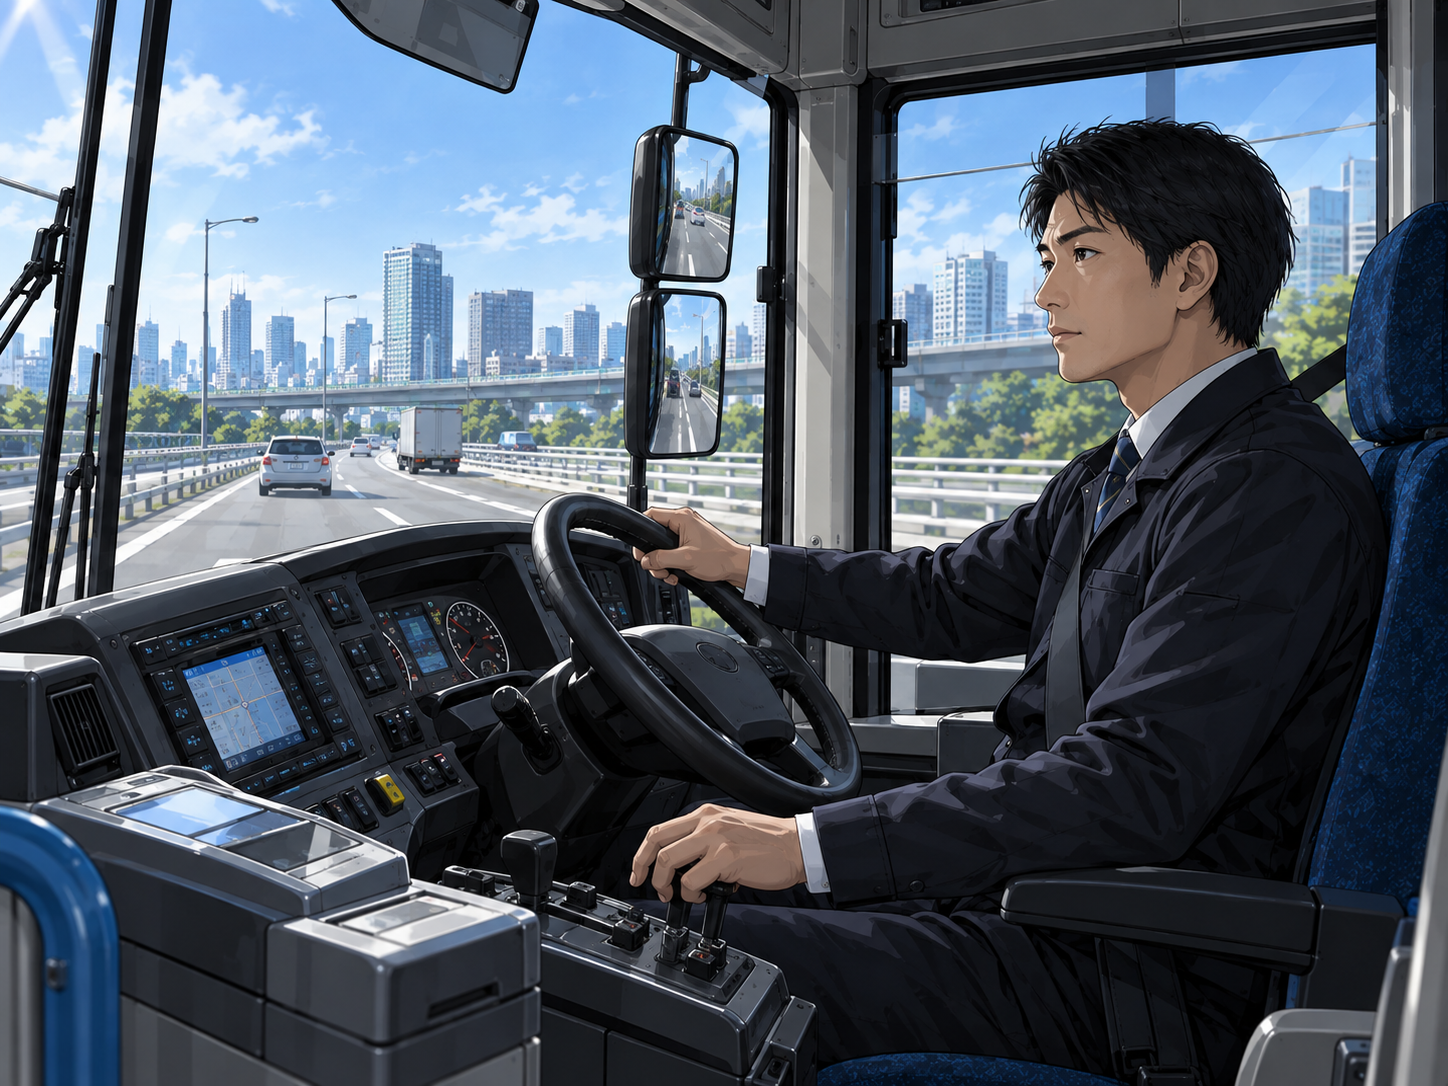
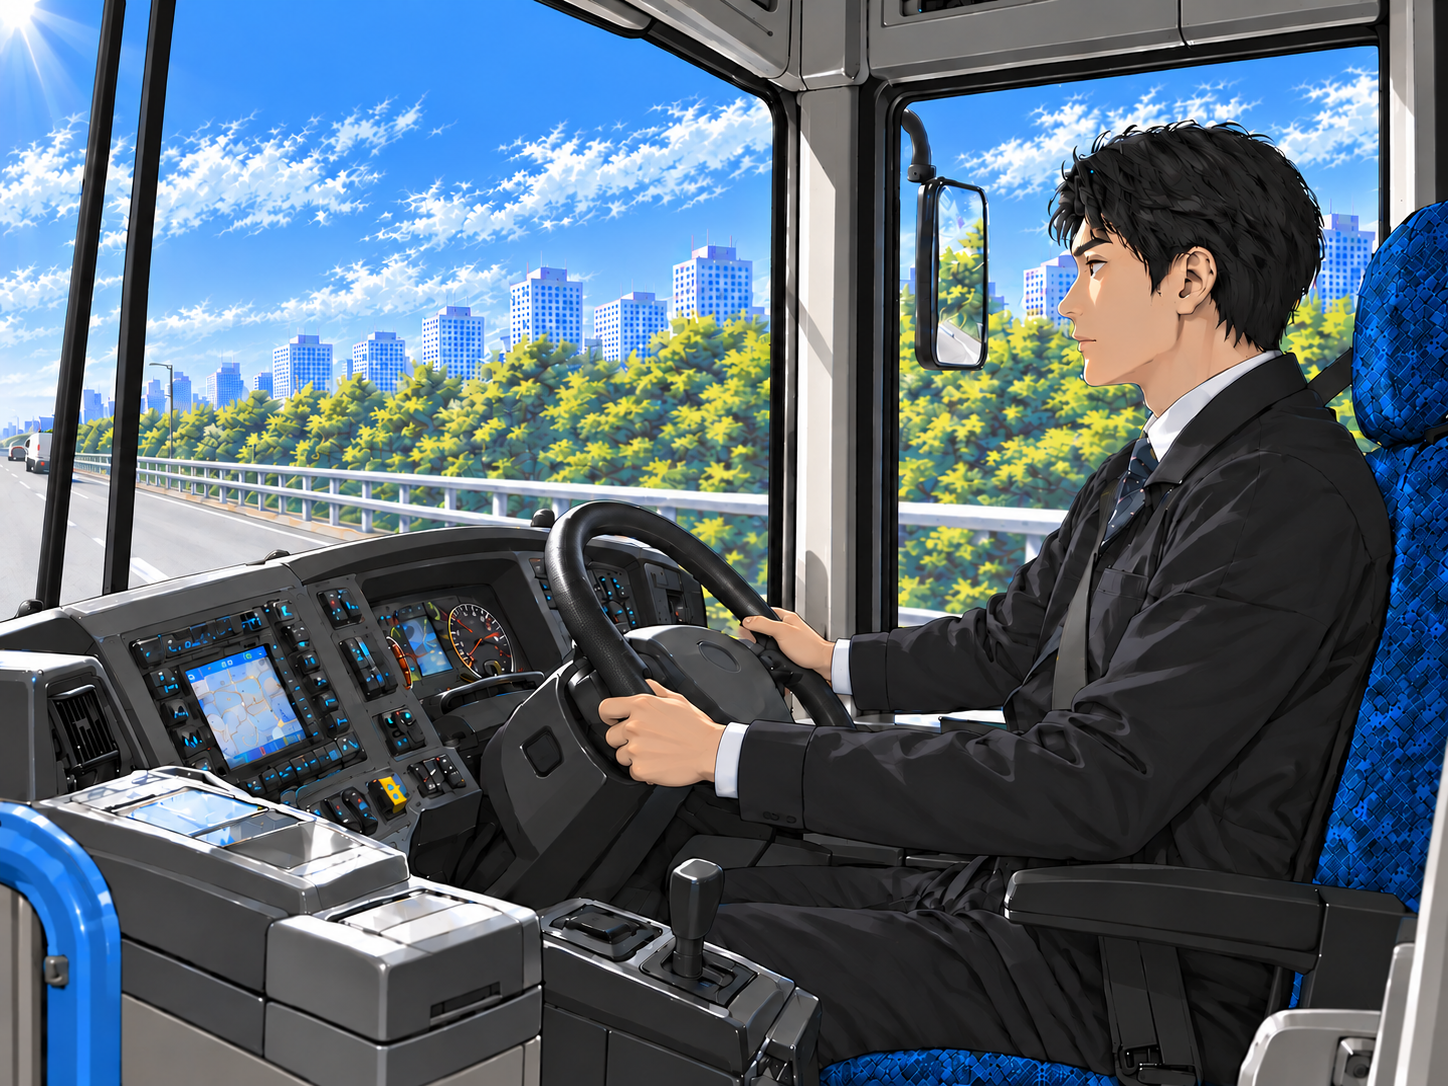
最新版の応募書類3点を再掲載

diff --git a/index.html b/index.html
@@ -6,7 +6,7 @@
   <meta name="description" content="岩谷 努｜自動運転開発ドライバー応募用ポートフォリオ">
   <title>岩谷 努｜自動運転開発ドライバー Portfolio</title>
   <link rel="stylesheet" href="styles.css?v=20260908-1">
-    <link rel="stylesheet" href="portfolio.css?v=20260920-46">
+    <link rel="stylesheet" href="portfolio.css?v=20260921-5">
 </head>
 <body>
   <div class="progress" aria-hidden="true"><span></span></div>
@@ -38,30 +38,30 @@
     <section id="strengths" class="section reveal">
       <div class="section-head"><p class="eyebrow">01 / CORE STRENGTHS</p><h2><span>これまでの経験を</span><em>貴社の業務に活かします。</em></h2></div>
       <div class="strength-grid">
-        <article class="card card-wide"><span class="card-no">01</span><h3>車両の挙動を確認し、<br>発生条件を整理します。</h3><p>車両の不具合には、車速やブレーキの踏み方、操舵角、外気温、段差通過時の荷重変化など、発生条件が伴う場合があります。整備・電装・板金塗装に携わった10年間、お客様が感じられた違和感を丁寧に聞き取り、状況を整理して原因の特定と修理につなげてまいりました。その経験を活かし、開発現場でも車両の挙動と発生条件を正確に記録し、事実として共有します。</p></article>
-        <article class="card"><span class="card-no">02</span><h3>路面や天候の変化に気を配り、<br>安全運行を心掛けます。</h3><p>乾燥路面から雨天時の濡れた路面、冬期の圧雪・凍結路まで、大型バスで様々な環境を運行してまいりました。周囲の支えにも恵まれ、日々の運行を安全に続けてまいりました。路面状況や車両の挙動変化に常に気を配り、急操作を避けた丁寧な運転を心掛けております。テスト走行においても、決められた評価条件を尊重し、安全で再現性のある走行を心掛け、実車評価を静かに支えてまいりたいと考えております。</p></article>
-        <article class="card card-accent"><span class="card-no">03</span><h3>車両構造を理解し、<br>挙動の変化を正確に伝えます。</h3><p>整備士として車両構造や電装系の仕組みを学び、バス運転士として日々の運行を通じて車両挙動に向き合ってまいりました。また、日常的にEV自家用車を運転する中で、回生ブレーキの減速感や電費、バッテリー状態による変化など、電動車ならではの挙動にも関心を持ち、日々の運転を通じて学んでおります。開発チームの皆様が必要とされるデータ収集や実車評価において、少しでもお役に立てるよう、真摯に取り組んでまいります。</p></article>
+        <article class="card card-wide"><span class="card-no">01</span><h3>車両の挙動を確認し、<br>発生条件を整理します。</h3><p>　車両の走行時における不具合には、車速やブレーキの踏み方、操舵角、外気温、段差通過時の荷重変化など、さまざまな発生条件が伴う場合があると認識しております。自動車修理・販売に携わった10年間、お客様が感じられた違和感を丁寧に聞き取り、いつ、どのような状況で症状が現れたのかを整理し、原因の特定と修理につなげてまいりました。貴社の開発現場でも、車両の挙動だけでなく、路面状況や操作のタイミングを含めて不具合が発生した場合には、その発生条件を正確に記録し、改善につながる情報として開発チームメンバーの皆様と共有します。</p></article>
+        <article class="card"><span class="card-no">02</span><h3>路面や天候の変化に気を配り、<br>安全運行を心掛けます。</h3><p>　乾燥路面から雨天時の濡れた路面、冬期の圧雪・凍結路まで、大型バスで様々な環境を運行してまいりました。その中で、これまで幸いにも事故なく安全運行を続けてまいりました。道路や路面の状況を考慮しながら走行し、常に車両の挙動変化に気を配り、急操作を避けた丁寧な運転を心掛けております。テスト走行業務においても、決められた評価条件を厳守し、完全自動運転開発のために確実なデータ収集を行い、実車評価業務を支えてまいりたいと考えております。</p></article>
+        <article class="card card-accent"><span class="card-no">03</span><h3>EV車両構造を理解し、<br>車両の挙動変化を正確に伝えます。</h3><p>　整備士として車両構造や電装系の仕組みを学び、バス運転士として日々の運行を通じて車両挙動に向き合ってまいりました。また、日常的にEV自家用車を運転する中で、回生ブレーキの減速感や電費、バッテリー状態による変化など、EVならではの挙動にも関心を持ち、日々の運転を通じて学んでおります。開発チームの皆様が必要とされるデータ収集や実車評価において、少しでもお役に立てるよう、真摯に取り組んでまいります。</p></article>
       </div>
     </section>
 
     <section class="field-gallery reveal" aria-labelledby="field-gallery-title">
       <div class="section-head"><p class="eyebrow">FIELD SCENES / CONCEPT GRAPHICS</p><h2 id="field-gallery-title"><span>現場で培った</span><em>経験を活かします。</em></h2></div>
       <div class="gallery-track">
-        <figure class="scene-card"><img src="maintenance-ev.png" alt="架空のEVを整備する作業イメージ"><figcaption><span>01 / MAINTENANCE</span><strong>整備します</strong><small>AI-GENERATED CONCEPT IMAGE</small></figcaption></figure>
-        <figure class="scene-card"><img src="bus-driving.png" alt="右ハンドルの大型バスを運転する作業イメージ"><figcaption><span>02 / DRIVING</span><strong>運転します</strong><small>AI-GENERATED CONCEPT IMAGE</small></figcaption></figure>
-        <figure class="scene-card"><img src="electrical-repair.png" alt="架空のEVの車両空調と電装を修理する作業イメージ"><figcaption><span>03 / DIAGNOSIS</span><strong>修理します</strong><small>AI-GENERATED CONCEPT IMAGE</small></figcaption></figure>
-        <figure class="scene-card"><img src="team-information-sharing.png?v=20260919-1" alt="車両挙動や走行記録についてチームで情報交換する作業イメージ"><figcaption><span>04 / TEAMWORK</span><strong>共有します</strong><small>AI-GENERATED CONCEPT IMAGE</small></figcaption></figure>
+        <figure class="scene-card"><img src="maintenance-ev.png?v=20260921-3" alt="車両の開いたボンネットを確認する整備作業のイメージ"><figcaption><span>01 / MAINTENANCE</span><strong>整備</strong><small>AI-GENERATED CONCEPT IMAGE</small></figcaption></figure>
+        <figure class="scene-card"><img src="sales-consultation.png?v=20260921-3" alt="営業担当者がお客様へ車両状態や整備内容を説明する営業相談のイメージ"><figcaption><span>02 / SALES</span><strong>営業</strong><small>AI-GENERATED CONCEPT IMAGE</small></figcaption></figure>
+        <figure class="scene-card"><img src="bus-driving.png?v=20260921-56" alt="右ハンドルの大型バスを両手で運転する作業イメージ"><figcaption><span>03 / DRIVING</span><strong>運転</strong><small>AI-GENERATED CONCEPT IMAGE</small></figcaption></figure>
+        <figure class="scene-card"><img src="team-information-sharing.png?v=20260921-4" alt="車両挙動や走行記録についてチームで情報共有する作業イメージ"><figcaption><span>04 / SHARING</span><strong>共有</strong><small>AI-GENERATED CONCEPT IMAGE</small></figcaption></figure>
       </div>
       <p class="gallery-note">人物・車両はいずれも実在の写真ではなく、経験を説明するためのAI生成コンセプトイメージです。</p>
     </section>
 
     <section id="approach" class="dark-section reveal"><div class="section-head"><p class="eyebrow">02 / FIELD APPROACH</p><h2><span>思い込みを避け、</span><em><span class="phrase-lock">確認した事実</span>を大切にします。</em></h2></div>
-      <div class="approach-layout"><div class="approach-summary"><p>　「だろう運転」や思い込みを避け、運行前点検と決められた確認手順を一つひとつ丁寧に行います。</p><p>「違和感がある」という感覚だけで終わらせず、車速・路面状況・操作のタイミング・発生した挙動を事実として記録します。想定外の事象は自己判断せず、速やかに開発チームへ共有します。</p><p>20年の現場経験を過信せず、基本手順を守り、路面や車両から得た事実を正確に届けます。</p></div></div>
+      <div class="approach-layout"><div class="approach-summary"><p>　貴社で定められた手順を一つひとつ丁寧に守ります。「違和感がある」という感覚だけで終わらせず、車速・路面状況・操作のタイミングで生じた、車両の挙動を正確に記録します。想定外の挙動も自己判断せず、速やかに開発チームメンバーの皆様に共有します。20年の現場経験を過信せず、基本手順を守り、実際の走行で得たデータを正確に記録します。</p></div></div>
     </section>
 
-    <section id="career" class="section reveal"><div class="section-head"><p class="eyebrow">03 / CAREER</p><h2><span>現場で積み重ねた</span><em>経験を活かします。</em></h2></div><div class="career-layout"><div class="career-summary"><p>　整備では車検や点検、各種部品の取付や修理、板金塗装などに幅広く関わってまいりました。営業ではお客様のご要望に親身に寄り添い、車両状態を見極めた修理内容や商品の提案を通じて信頼関係を築いてまいりました。現在ではその経験を土台として路線・貸切バスの運行業務に携わり、天候や路面に応じた適切な運転で安心・安全な輸送サービスを提供してまいりました。</p></div></div></section>
+    <section id="career" class="section reveal"><div class="section-head"><p class="eyebrow">03 / CAREER</p><h2><span>現場で積み重ねた</span><em>経験を活かします。</em></h2></div><div class="career-layout"><div class="career-summary"><p>　自動車整備、営業を通じてお客様のご要望に親身に寄り添い、車両状態を見極めた修理内容や商品の提案を通じて信頼関係を築いてまいりました。現在ではその経験を土台として路線・貸切バスの運行業務に携わり、天候や路面に応じた適切な運転でお客様に安心・安全な輸送サービスを提供させていただいております。</p></div></div></section>
 
-    <section id="contact" class="closing reveal"><p class="eyebrow">NEXT MISSION</p><h2><span>これまでの現場経験を活かし、</span><em>完全自動運転開発に全力を尽くします。</em></h2><p>実車走行の現場には、勾配やわだち、路面摩擦の変化、天候の急変など、現場でなければ気づきにくい要素があると認識しております。また、これまでの経験だけで判断せず、安全手順を守りながら事実を丁寧に集めてチームと共有します。開発に関わる皆様と調和を図り連携し、実車評価の現場を支えたいと考えます。</p><div class="closing-sign"><span>岩谷 努</span><small>APPLICATION FOR AUTONOMOUS DRIVING DEVELOPMENT DRIVER</small></div></section>
+    <section id="contact" class="closing reveal"><p class="eyebrow">NEXT MISSION</p><h2><span>これまでの現場経験を活かし、</span><em>完全自動運転開発に全力を尽くします。</em></h2><p>　実車走行の現場には、勾配やわだち、路面摩擦の変化、天候の急変など、現場でなければ気づきにくい要素があると認識しております。また、これまでの経験だけで判断せず、実験データを丁寧に集めてチームメンバーの皆様と共有します。開発に関わるすべての方々との調和を図り連携し、実車評価の現場を支えたいと考えます。</p><div class="closing-sign"><span>岩谷 努</span><small>APPLICATION FOR AUTONOMOUS DRIVING DEVELOPMENT DRIVER</small></div></section>
   </main>
   <footer><span>© 2026 IWAYA TSUTOMU</span><span>APPLICATION PORTFOLIO / FIELD EXPERIENCE</span><a class="github-link" href="https://github.com/tsutomu-iwaya1984" target="_blank" rel="noopener">GitHub</a></footer>
   <script src="script.js"></script>

diff --git a/portfolio.css b/portfolio.css
@@ -28,7 +28,7 @@ html,body{max-width:100%;overflow-x:hidden}body{background:var(--paper);color:va
 .section-head{display:block;max-width:920px;margin:0 auto}.section-head h2{margin:28px 0 0;max-width:none}
 .field-gallery .section-head{padding-left:0;padding-right:0}
 @media(max-width:760px){.section-head h2{margin:20px 0 0}}
-.scene-card:nth-child(4) img{object-fit:contain;background:#0b0d0f}
+.scene-card:nth-child(4) img{object-fit:cover;background:#0b0d0f}
 .documents{padding:112px 5vw;background:var(--paper);border-top:1px solid #d9ddda}.documents .section-head{margin-bottom:40px}.document-links{max-width:920px;margin:0 auto;display:grid;grid-template-columns:repeat(3,minmax(0,1fr));gap:18px}.document-card{display:grid;gap:10px;padding:24px;background:#172231;color:#fff;border-top:4px solid var(--blue);box-shadow:8px 8px 0 rgba(22,119,255,.16);transition:transform .25s ease,box-shadow .25s ease}.document-card:hover{transform:translateY(-4px);box-shadow:8px 12px 0 rgba(22,119,255,.24)}.document-card>span{font:500 .64rem var(--mono);letter-spacing:.08em;color:var(--cyan)}.document-card strong{font-size:1.2rem}.document-card>div{display:flex;flex-wrap:wrap;gap:10px 18px}.document-card a{color:#fff;font:600 .78rem var(--mono);text-decoration:none}.document-card a:hover{color:var(--cyan)}.document-card .document-download{color:var(--cyan)}
 @media(max-width:760px){.documents{padding:78px 8vw}.document-links{display:block}.document-links a{margin-bottom:14px}}
 
@@ -51,11 +51,14 @@ html,body{max-width:100%;overflow-x:hidden}body{background:var(--paper);color:va
 #strengths .section-head{border-bottom:0}
 .scene-card:nth-child(4) figcaption span{color:var(--cyan)}
 #career .career-layout{padding-top:36px}
+#approach .approach-layout{padding-top:36px}
 .hero h1{font-size:clamp(2.8rem,4.2vw,5rem);line-height:1.12;letter-spacing:-.07em}
 @media(max-width:760px){.hero h1{font-size:clamp(2.2rem,9vw,3rem);line-height:1.12;letter-spacing:-.07em}}
 @media(min-width:761px){.strength-grid .card h3{min-height:2.7em}}
 @media(min-width:761px){.strength-grid .card{justify-content:flex-start}.strength-grid .card p{margin-top:20px}}
-.strength-grid .card p{width:100%;max-width:none;text-indent:0;text-align:justify;text-justify:inter-ideograph;text-align-last:left}
+.strength-grid .card{padding:34px}
+.strength-grid .card>*{width:100%;max-width:none;margin-left:0;margin-right:0}
+.strength-grid .card p{width:100%!important;max-width:100%!important;text-indent:0;text-align:justify;text-justify:inter-ideograph;text-align-last:left;letter-spacing:0;text-wrap:wrap}
 .hero h1,.section-head h2,.closing h2,.card h3{font-family:var(--sans);font-weight:800}
 .hero h1,.section-head h2,.closing h2{font-size:clamp(2.5rem,3vw,3.8rem);line-height:1.16;letter-spacing:-.07em}
 @media(max-width:760px){.hero h1,.section-head h2,.closing h2{font-size:clamp(2.2rem,9vw,3.1rem);line-height:1.14;letter-spacing:-.07em}}
@@ -63,3 +66,5 @@ html,body{max-width:100%;overflow-x:hidden}body{background:var(--paper);color:va
 .section-head h2 span,.section-head h2 em{display:inline;white-space:nowrap}
 .section-head h2 em{margin-left:.16em}
 @media(max-width:760px){.section-head h2{font-size:clamp(1.15rem,5.5vw,2.2rem);letter-spacing:-.08em}.section-head h2 span,.section-head h2 em{display:inline;white-space:nowrap}}
+.github-link{font-size:.82rem;font-weight:700;letter-spacing:.06em}
+.strength-grid .card h3{text-align:center;width:100%;margin-left:auto;margin-right:auto}
